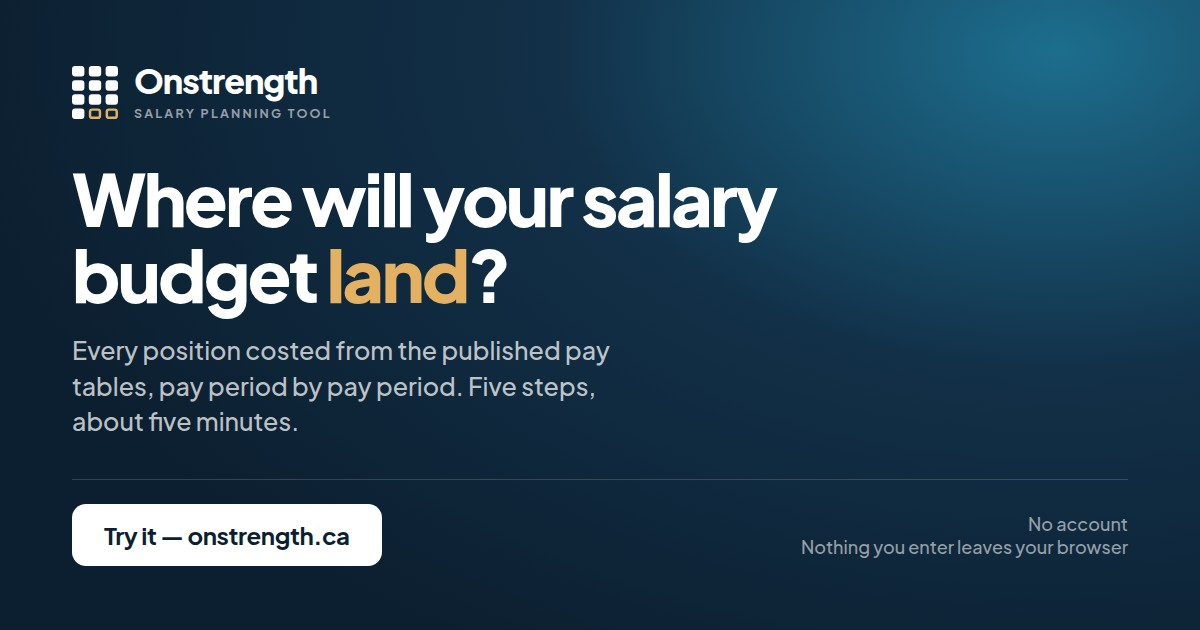
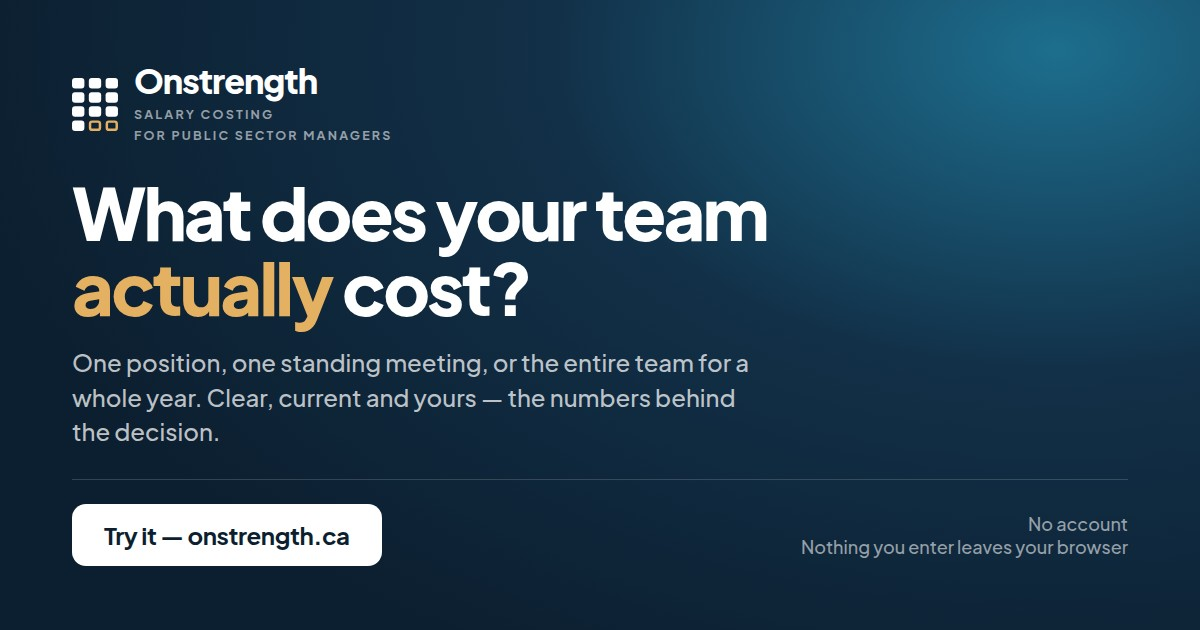
Add files via upload

Changed region(s): [[0.0617, 0.2714, 0.6475, 0.7238], [0.0617, 0.0905, 0.3392, 0.2413]]

diff --git a/index.html b/index.html
@@ -4,8 +4,8 @@
 <meta charset="utf-8">
 <meta http-equiv="Content-Security-Policy" content="default-src 'none'; base-uri 'none'; form-action 'none'; object-src 'none'; img-src 'self' data:; font-src https://fonts.gstatic.com; style-src 'unsafe-inline' https://fonts.googleapis.com; script-src 'sha256-xQJ7pCJKZl0il4wcOBYP7z640lKqCenBmTI1aC3/GCk='; connect-src 'self' https://fonts.googleapis.com https://fonts.gstatic.com; manifest-src 'self'; worker-src 'self'">
 <meta name="viewport" content="width=device-width, initial-scale=1, viewport-fit=cover">
-<title>Onstrength — pay and costing calculators for public sector managers</title>
-<meta name="description" content="Cost a job, a meeting, or your whole year. Every rate from the published pay tables, costed to the day. No account, and nothing you enter leaves your browser.">
+<title>Onstrength — salary costing for public sector managers</title>
+<meta name="description" content="What does your team actually cost? One position, one standing meeting, or the entire team for a whole year — salaries from the published pay tables, worked out to the day.">
 <meta name="theme-color" content="#EFF1F3" media="(prefers-color-scheme: light)">
 <meta name="theme-color" content="#0F151A" media="(prefers-color-scheme: dark)">
 <link rel="icon" href="icons/favicon-32.png" sizes="32x32">
@@ -14,8 +14,8 @@
 <link rel="manifest" href="manifest.webmanifest">
 
 <meta property="og:type" content="website">
-<meta property="og:title" content="Onstrength — pay and costing calculators for public sector managers">
-<meta property="og:description" content="Cost a job, a meeting, or your whole year — from the published pay tables, to the day. Nothing you enter leaves your browser.">
+<meta property="og:title" content="Onstrength — salary costing for public sector managers">
+<meta property="og:description" content="One position, one standing meeting, or the entire team for a whole year. Salaries from the published pay tables, worked out to the day. Nothing you enter leaves your browser.">
 <!-- The share card, and it has to be an absolute URL: scrapers do not resolve
      a relative og:image, so the old icons/icon-512.png meant LinkedIn found no
      picture at all and fell back to a bare link. It also has to be landscape —
@@ -25,7 +25,7 @@
 <meta property="og:image:type" content="image/jpeg">
 <meta property="og:image:width" content="1200">
 <meta property="og:image:height" content="630">
-<meta property="og:image:alt" content="Onstrength — where will your salary budget land? Try it at onstrength.ca">
+<meta property="og:image:alt" content="Onstrength — what does your team actually cost? Try it at onstrength.ca">
 <meta property="og:site_name" content="Onstrength">
 <meta property="og:url" content="https://onstrength.ca/">
 <link rel="canonical" href="https://onstrength.ca/">
@@ -252,15 +252,16 @@ footer a.kmc:hover{text-decoration:underline}
   <header>
     <div class="lockmark"><svg viewBox="0 0 26 30" fill="none" aria-hidden="true"><rect x="0" y="0" width="7" height="6" rx="1.7" fill="currentColor"/><rect x="9.5" y="0" width="7" height="6" rx="1.7" fill="currentColor"/><rect x="19" y="0" width="7" height="6" rx="1.7" fill="currentColor"/><rect x="0" y="8" width="7" height="6" rx="1.7" fill="currentColor"/><rect x="9.5" y="8" width="7" height="6" rx="1.7" fill="currentColor"/><rect x="19" y="8" width="7" height="6" rx="1.7" fill="currentColor"/><rect x="0" y="16" width="7" height="6" rx="1.7" fill="currentColor"/><rect x="9.5" y="16" width="7" height="6" rx="1.7" fill="currentColor"/><rect x="19" y="16" width="7" height="6" rx="1.7" fill="currentColor"/><rect x="0" y="24" width="7" height="6" rx="1.7" fill="currentColor"/><rect x="10.2" y="24.7" width="5.6" height="4.6" rx="1.2" fill="none" stroke="var(--est)" stroke-width="1.4"/><rect x="19.7" y="24.7" width="5.6" height="4.6" rx="1.2" fill="none" stroke="var(--est)" stroke-width="1.4"/></svg></div>
     <div class="lockname">Onstrength</div>
-    <div class="locktag"><span>Pay and costing calculators</span><span>for public sector managers</span></div>
+    <div class="locktag"><span>Salary costing</span><span>for public sector managers</span></div>
   </header>
 
   <div class="hero">
     <div>
       <div class="tagline">Clear. Current. Yours.</div>
-      <h1>Cost a job, a meeting, or your whole year.</h1>
-      <p class="lede">Every rate comes straight from the published pay tables. Nothing to
-        install, no account, and nothing you type leaves your browser.</p>
+      <h1>What does your team actually cost?</h1>
+      <p class="lede">One position, one standing meeting, or the entire team for a whole year.
+        Salaries from the published pay tables, worked out to the day rather than the month —
+        and nothing you type leaves your browser.</p>
 
       <!-- Three doors, each finishable in a sitting and each carrying the time
            it takes. Somebody who arrived with one question can leave with the

diff --git a/app.html b/app.html
@@ -2,7 +2,7 @@
 <html lang="en">
 <head>
 <meta charset="utf-8">
-<meta http-equiv="Content-Security-Policy" content="default-src 'none'; base-uri 'none'; form-action 'none'; object-src 'none'; img-src 'self' data:; font-src https://fonts.gstatic.com; style-src 'unsafe-inline' https://fonts.googleapis.com; script-src 'sha256-yBdhzqafITWP8ajA65/zFVBr2L9p9Ax4BBpjL0U4GrA=' 'sha256-hix5n22vBGWLfCtpJGMy93MVwlY9pCtgAGOLI8PMoXQ='; connect-src 'self' https://fonts.googleapis.com https://fonts.gstatic.com; manifest-src 'self'; worker-src 'self'">
+<meta http-equiv="Content-Security-Policy" content="default-src 'none'; base-uri 'none'; form-action 'none'; object-src 'none'; img-src 'self' data:; font-src https://fonts.gstatic.com; style-src 'unsafe-inline' https://fonts.googleapis.com; script-src 'sha256-bNRN8kpH0/Uq5vejSvOGieJPLA5gx4Q8fM/eKMHAvlc=' 'sha256-hix5n22vBGWLfCtpJGMy93MVwlY9pCtgAGOLI8PMoXQ='; connect-src 'self' https://fonts.googleapis.com https://fonts.gstatic.com; manifest-src 'self'; worker-src 'self'">
 <meta name="viewport" content="width=device-width, initial-scale=1, viewport-fit=cover">
 <meta name="description" content="Salary planning tool for public sector managers. Plan a cost centre year from its complement, by pay period.">
 <meta name="theme-color" content="#F4F5FA" media="(prefers-color-scheme: light)">
@@ -1404,7 +1404,7 @@ a:hover{color:var(--ink)}
 (function () {
   "use strict";
   var DAY = 86400000, KEY = "complement.v3";
-  var APP_VERSION = "v78";   // keep in step with CACHE_VERSION in sw.js
+  var APP_VERSION = "v81";   // keep in step with CACHE_VERSION in sw.js
 
   /* Put a LinkedIn (or any) URL here and every "Kiska Management Consultants"
      in the app becomes a link to it. Leave it empty and they stay plain text —

diff --git a/help.html b/help.html
@@ -163,9 +163,9 @@ footer .kmc{font-weight:600;color:var(--ink-2);text-decoration:none}
     <div class="triad">
       <div>
         <span class="lab">What it is</span>
-        <p>Pay and costing calculators for public sector managers. Every rate is read from the
-          published pay tables, and every figure is worked out to the day rather than the
-          month.</p>
+        <p>Salary costing for public sector managers. Every rate is read from the published
+          pay tables, and every figure is worked out to the day rather than the month — one
+          position, one standing meeting, or the entire team for a whole year.</p>
       </div>
       <div>
         <span class="lab">Why use it</span>

diff --git a/sw.js b/sw.js
@@ -4,7 +4,7 @@
    will keep serving the copy they already have. This is the single most common
    reason an update appears to do nothing. */
 
-const CACHE_VERSION = "onstrength-v78";
+const CACHE_VERSION = "onstrength-v81";
 
 const SHELL = [
   "./",
